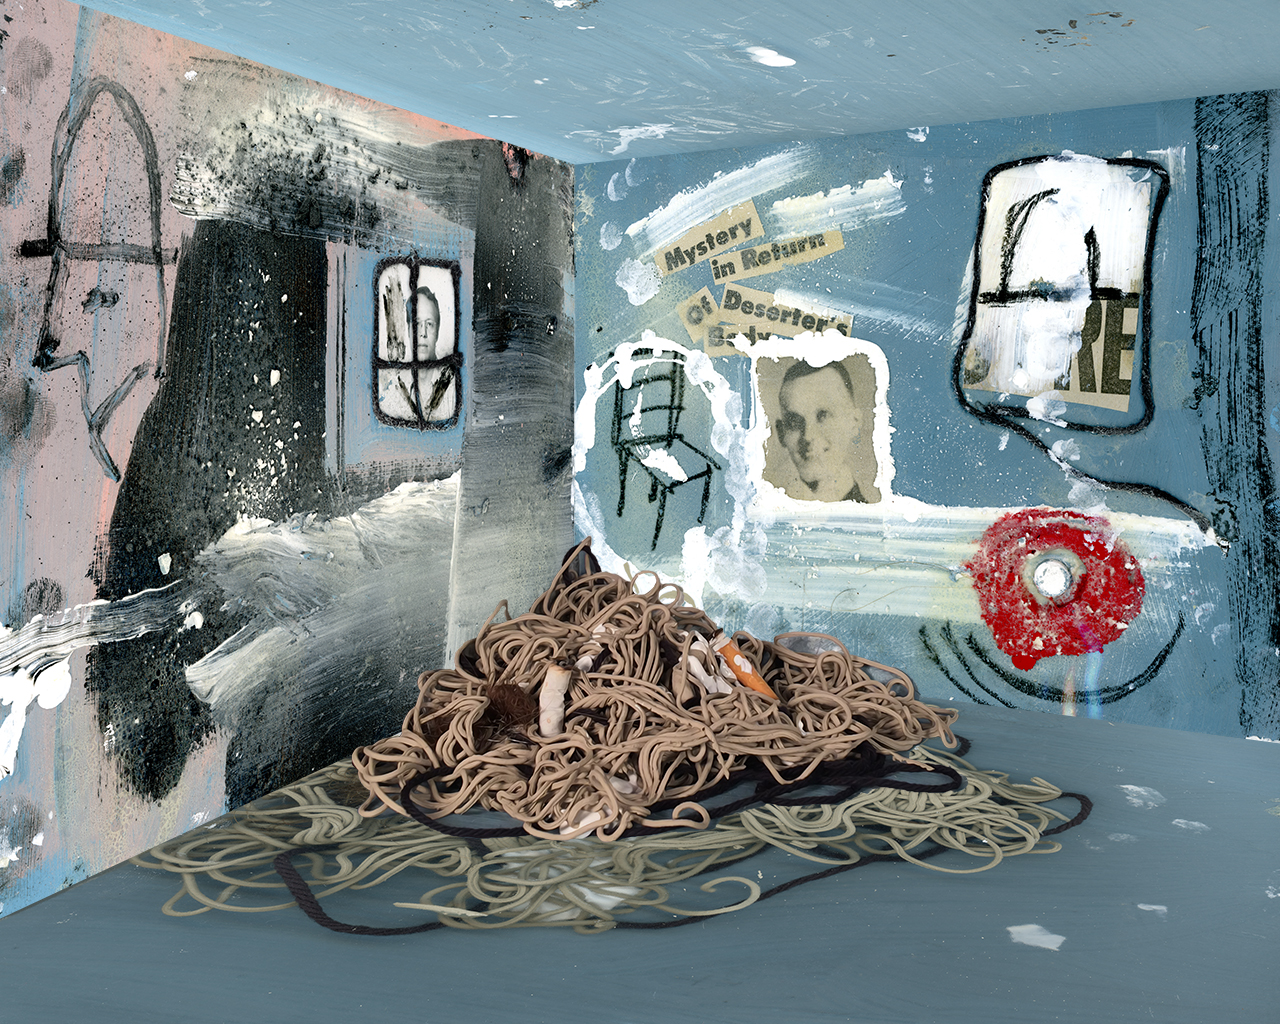
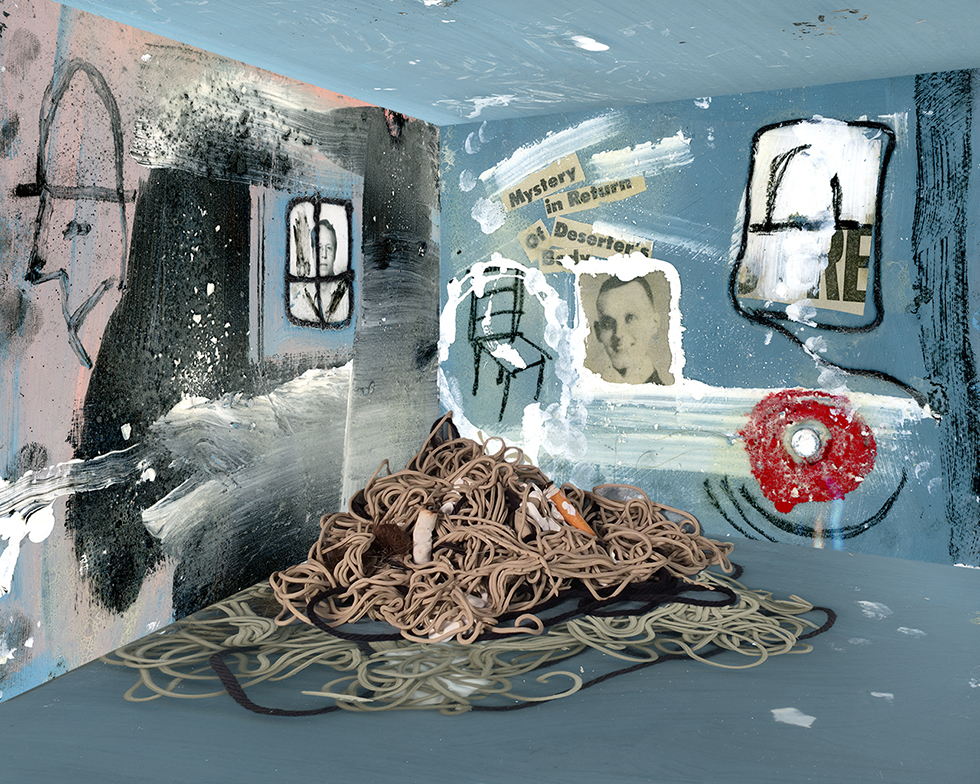
made img smaller max-w 980px

Changed region(s): [[0.1837, 0.4286, 0.2449, 0.4898], [0.7959, 0.1837, 0.8265, 0.2143]]

diff --git a/css/styles.css b/css/styles.css
@@ -135,6 +135,7 @@ span.heading-contact {
     position: relative;
     z-index: 0;
     width: 50vw;
+    max-width: 980px;
     height: auto;
     margin-top: 10px;
     margin-left: 11%;
